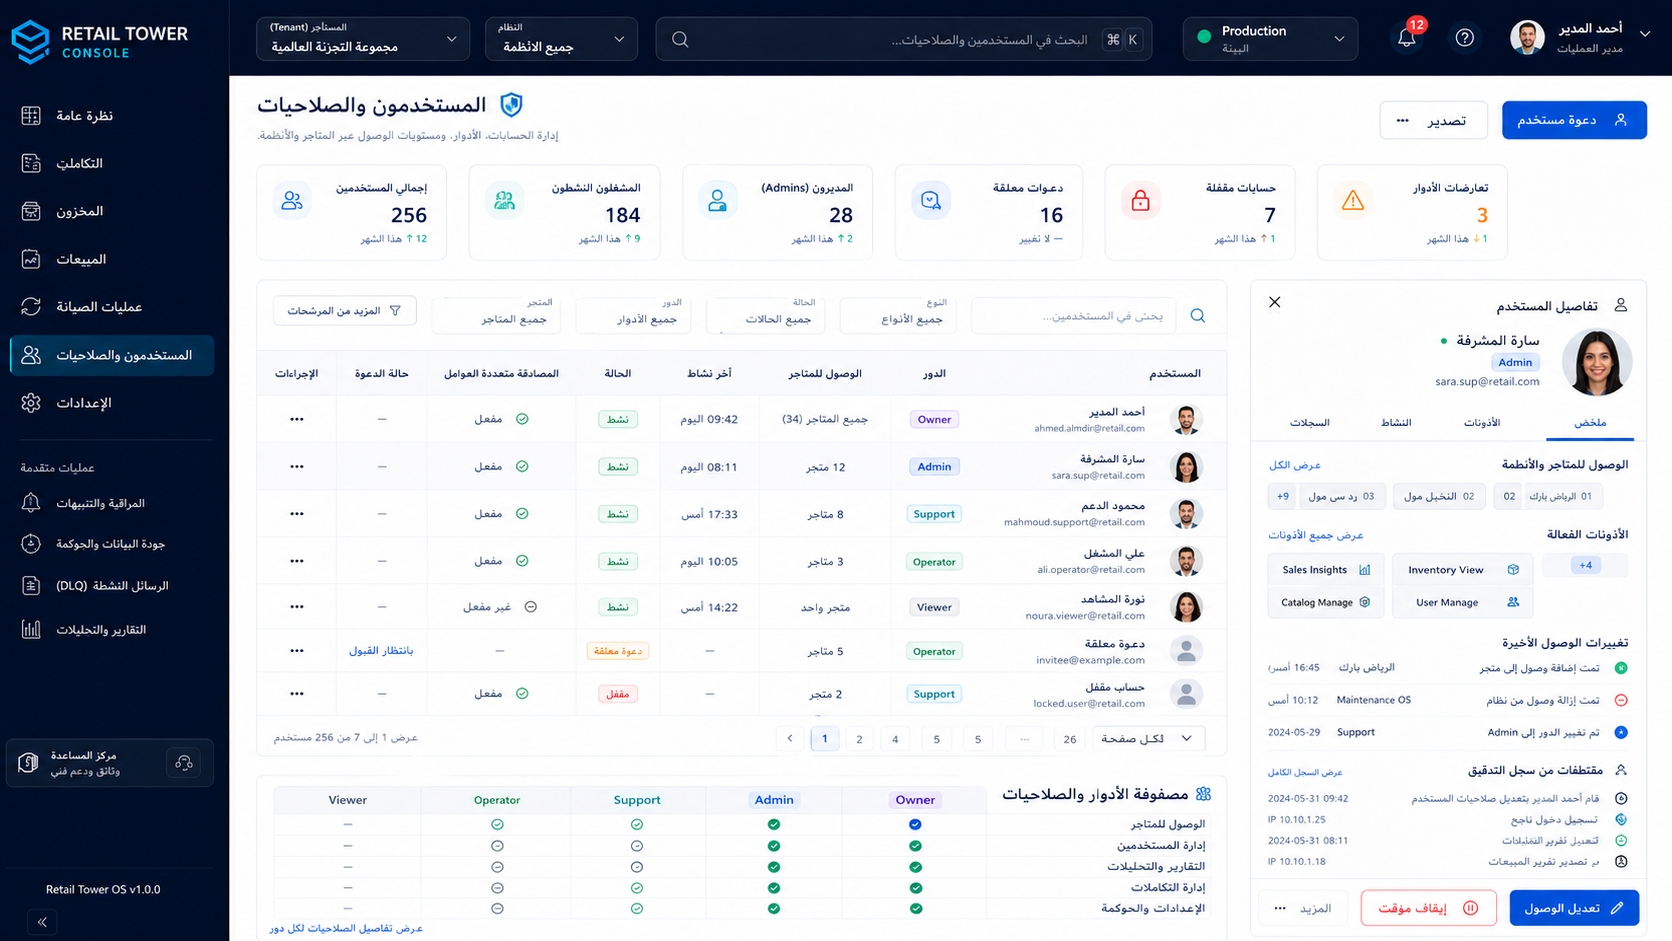
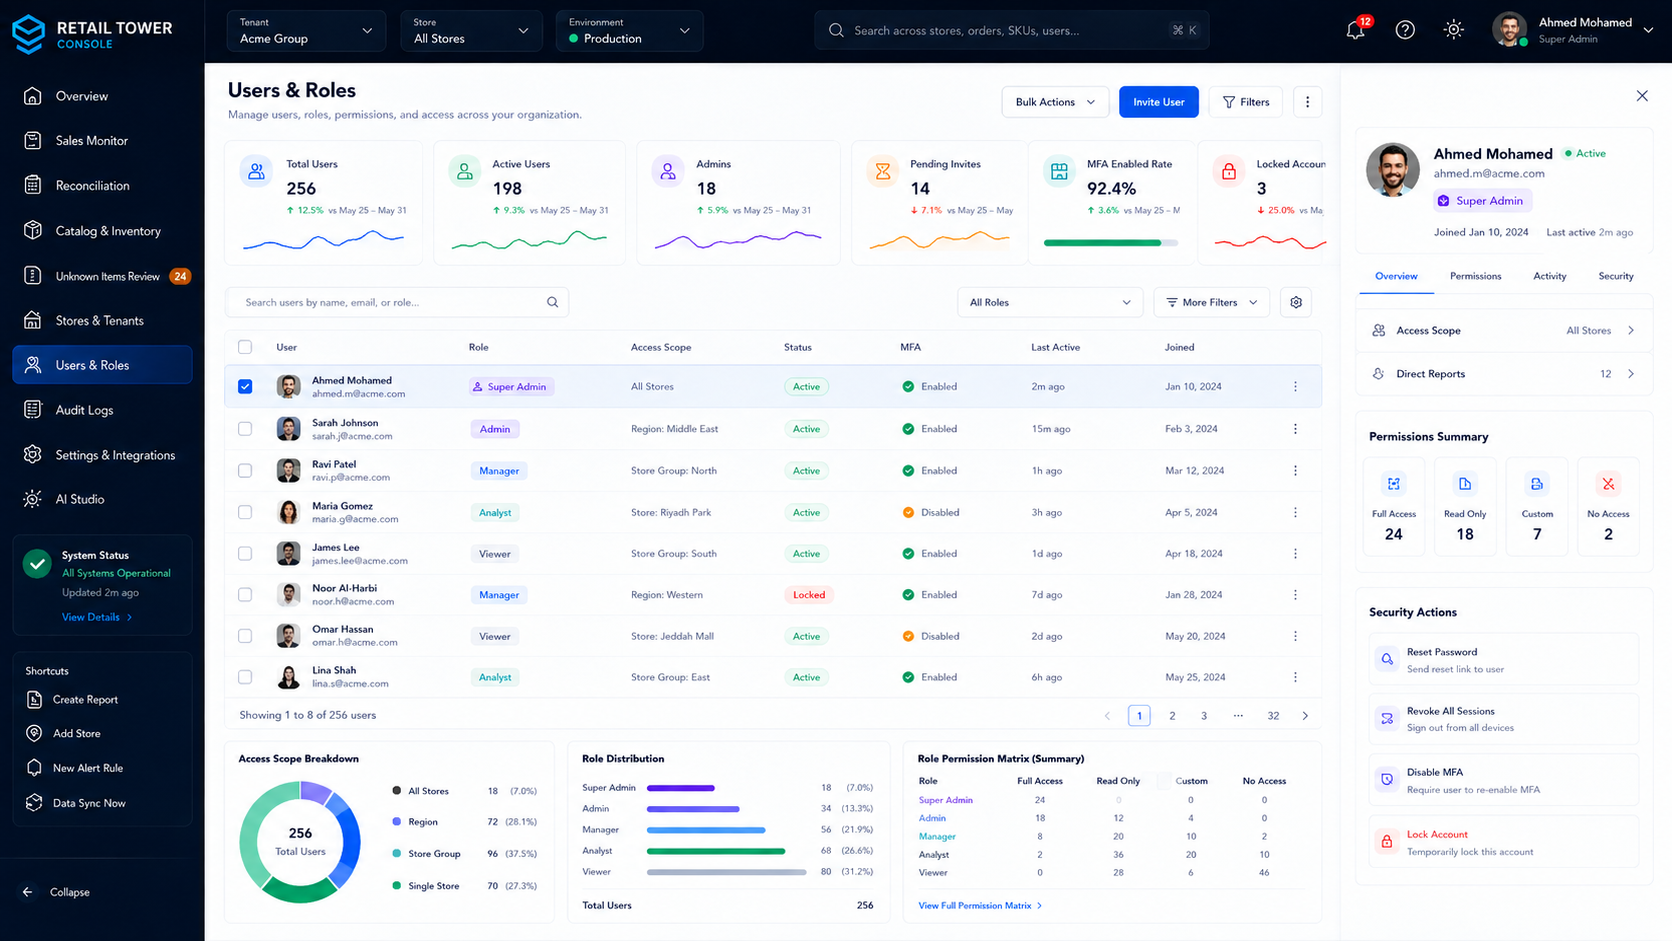
docs(design): replace console vision mockups with single converged vision
Remove the two competing-direction mockup sets (vision-1 light, vision-2
dark, 18 PNGs total) and replace them with a single converged design
direction: 10 screens imported from E:\Tower OS\UI-UX\console\4, renamed
from GUIDs to descriptive, nav-ordered names under vision-1/.

New screens: overview, sales-monitor, reconciliation, catalog-inventory,
unknown-items, stores-tenants, users-roles, audit-logs,
settings-integrations, ai-studio.

Rewrite _vision/README.md from "two competing visions, pick one" to a
single chosen direction with a refreshed screen-index -> slice mapping.

Reconcile the 8 vision-stub specs (009-016) that linked the deleted PNGs:
- 009/011/012/016 repointed to their vision screen
- 010/013/014/015 have no dedicated screen in the chosen direction; each
  now notes which surface absorbed it and flags it to revisit at
  /speckit-specify

Reference-only docs under docs/**, ignored by biome/Vite/CI — no build
impact. Verified zero dead links; every referenced PNG resolves on disk.

Original-Commit: faaf5400b818afd6d3f8465417852f953edd4335

diff --git a/apps/admin-console/docs/design/_vision/README.md b/apps/admin-console/docs/design/_vision/README.md
@@ -1,41 +1,44 @@
-# Console Design Visions — Reference Mockups
+# Console Design Vision — Reference Mockups
 
 High-fidelity UI mockups for the **Retail Tower Console** admin frontend, kept as a
 visual reference for implementation.
 
-## Two visions, not two themes
+## One converged vision
 
-`vision-1/` and `vision-2/` are **two competing design directions** (iterations /
-proposals) for the same console — *not* a light-theme vs dark-theme pair. Vision 1 is
-rendered light and Vision 2 dark, but that is incidental. The intent is to compare the
-two proposals **screen-by-screen** and pick a direction.
+`vision-1/` holds the **chosen design direction** for the console — a single, internally
+consistent system: one dark command theme, one persistent left-nav, and one set of
+screens that share layout, density, and component language. Earlier rounds explored two
+competing proposals; this supersedes them. There is now a single vision to build toward.
 
-The console UI is RTL Arabic (the live product language); one overview screen is shown
-in English.
+The console UI is RTL Arabic (the live product language).
 
 > These live under `docs/**`, which biome, Vite, and CI all ignore — so adding them
 > does not affect the FR-008 build gate. They are reference only; nothing here ships.
 
 ## Screen index
 
-| Screen | Vision 1 (light) | Vision 2 (dark) | Maps to slice |
-|---|---|---|---|
-| Data Quality | `01-data-quality.png` | `01-data-quality.png` | — (no slice yet) |
-| Inventory | `02-inventory.png` | `02-inventory.png` | — (no slice yet) |
-| Sales | `03-sales.png` | `03-sales.png` | — (no slice yet) |
-| Monitoring / Pipeline ops | `04-monitoring-ops.png` | `04-monitoring-ops.png` | — (no slice yet) |
-| Reports & Analytics | `05-reports-analytics.png` | — | — (no slice yet) |
-| Monitoring & Alerts | `08-monitoring-alerts.png` | `05-monitoring-alerts.png` | — (no slice yet) |
-| Dead Letters (DLQ) | `06-dead-letters-dlq.png` | `06-dead-letters-dlq.png` | closest: `007-rf4a-unknown-items` |
-| Users & Roles | `07-users-roles.png` | `07-users-roles.png` | `005-rf5-operator-admin` |
-| Connectors / Settings | `09-connectors-settings.png` | `08-connectors-settings.png` | — (no slice yet) |
-| Overview ("Welcome back", English) | — | `09-overview-welcome.png` | — (no slice yet) |
+Filenames follow the left-nav order shown in the mockups.
 
-Most screens have no spec slice yet — the design runs ahead of the spec. Treat the
-unmatched ones as seeds for future slices.
+| # | Screen | File | Maps to slice |
+|---|---|---|---|
+| 01 | Executive Overview ("Welcome back") | `01-overview.png` | `009-rf-overview-dashboard` |
+| 02 | Sales Monitor | `02-sales-monitor.png` | `012-rf-sales` |
+| 03 | Reconciliation | `03-reconciliation.png` | — (no slice yet) |
+| 04 | Catalog & Inventory | `04-catalog-inventory.png` | `011-rf-inventory` |
+| 05 | Unknown Items Review | `05-unknown-items.png` | `007-rf4a-unknown-items` |
+| 06 | Stores & Tenants | `06-stores-tenants.png` | — (no slice yet) |
+| 07 | Users & Roles | `07-users-roles.png` | `005-rf5-operator-admin` |
+| 08 | Audit Logs | `08-audit-logs.png` | — (no slice yet) |
+| 09 | Settings & Integrations | `09-settings-integrations.png` | `016-rf-connectors-settings` |
+| 10 | AI Studio | `10-ai-studio.png` | — (no slice yet) |
+
+Several screens have no spec slice yet — the design runs ahead of the spec. Treat the
+unmatched ones (Reconciliation, Stores & Tenants, Audit Logs, AI Studio) as seeds for
+future slices. Slices `010` (Data Quality), `013` (Monitoring / Pipeline Ops),
+`014` (Monitoring & Alerts), and `015` (Reports & Analytics) are folded into the
+Overview / Sales / Audit surfaces in this vision rather than getting standalone screens.
 
 ## Source
 
-Imported from `E:\Tower OS\UI-UX\console\{1,2}`. Three exact-duplicate `(1).png`
-copies present in the source were dropped; GUID filenames were renamed to the
-descriptive English names above.
+Imported from `E:\Tower OS\UI-UX\console\4`. GUID filenames were renamed to the
+descriptive, nav-ordered English names above.

diff --git a/apps/admin-console/specs/014-rf-monitoring-alerts/spec.md b/apps/admin-console/specs/014-rf-monitoring-alerts/spec.md
@@ -6,10 +6,11 @@
 
 ## Vision reference
 
-- Vision 1 (light): [`docs/design/_vision/vision-1/08-monitoring-alerts.png`](../../docs/design/_vision/vision-1/08-monitoring-alerts.png)
-- Vision 2 (dark): [`docs/design/_vision/vision-2/05-monitoring-alerts.png`](../../docs/design/_vision/vision-2/05-monitoring-alerts.png)
+- No dedicated screen in the chosen design direction — alert signals surface via the
+  Executive Overview ([`docs/design/_vision/vision-1/01-overview.png`](../../docs/design/_vision/vision-1/01-overview.png), "Operational Exceptions" / "Recent Activity") and the Audit Logs surface.
 
-> Two competing visions of this screen — compare side by side. See [`docs/design/_vision/README.md`](../../docs/design/_vision/README.md).
+> The console converged on a single design direction; this slice no longer has a
+> standalone mockup. See [`docs/design/_vision/README.md`](../../docs/design/_vision/README.md). Revisit whether it warrants its own screen during `/speckit-specify`.
 
 ## Intent (one paragraph)
 

diff --git a/apps/admin-console/specs/013-rf-monitoring-ops/spec.md b/apps/admin-console/specs/013-rf-monitoring-ops/spec.md
@@ -6,10 +6,11 @@
 
 ## Vision reference
 
-- Vision 1 (light): [`docs/design/_vision/vision-1/04-monitoring-ops.png`](../../docs/design/_vision/vision-1/04-monitoring-ops.png)
-- Vision 2 (dark): [`docs/design/_vision/vision-2/04-monitoring-ops.png`](../../docs/design/_vision/vision-2/04-monitoring-ops.png)
+- No dedicated screen in the chosen design direction — pipeline-ops signals were folded
+  into the Executive Overview ([`docs/design/_vision/vision-1/01-overview.png`](../../docs/design/_vision/vision-1/01-overview.png), "Integration Health" / "System Status") and Reconciliation surfaces.
 
-> Two competing visions of this screen — compare side by side. See [`docs/design/_vision/README.md`](../../docs/design/_vision/README.md).
+> The console converged on a single design direction; this slice no longer has a
+> standalone mockup. See [`docs/design/_vision/README.md`](../../docs/design/_vision/README.md). Revisit whether it warrants its own screen during `/speckit-specify`.
 
 ## Intent (one paragraph)
 

diff --git a/apps/admin-console/specs/015-rf-reports-analytics/spec.md b/apps/admin-console/specs/015-rf-reports-analytics/spec.md
@@ -6,9 +6,11 @@
 
 ## Vision reference
 
-- Vision 1 (light): [`docs/design/_vision/vision-1/05-reports-analytics.png`](../../docs/design/_vision/vision-1/05-reports-analytics.png)
+- No dedicated screen in the chosen design direction — analytical/reporting views were
+  folded into the Sales Monitor ([`docs/design/_vision/vision-1/02-sales-monitor.png`](../../docs/design/_vision/vision-1/02-sales-monitor.png)) and Executive Overview surfaces; AI Studio ([`10-ai-studio.png`](../../docs/design/_vision/vision-1/10-ai-studio.png)) covers the report-builder direction.
 
-> Only one vision drew this screen. See [`docs/design/_vision/README.md`](../../docs/design/_vision/README.md) for the two-vision comparison context.
+> The console converged on a single design direction; this slice no longer has a
+> standalone mockup. See [`docs/design/_vision/README.md`](../../docs/design/_vision/README.md). Revisit whether it warrants its own screen during `/speckit-specify`.
 
 ## Intent (one paragraph)
 

diff --git a/apps/admin-console/specs/010-rf-data-quality/spec.md b/apps/admin-console/specs/010-rf-data-quality/spec.md
@@ -6,10 +6,11 @@
 
 ## Vision reference
 
-- Vision 1 (light): [`docs/design/_vision/vision-1/01-data-quality.png`](../../docs/design/_vision/vision-1/01-data-quality.png)
-- Vision 2 (dark): [`docs/design/_vision/vision-2/01-data-quality.png`](../../docs/design/_vision/vision-2/01-data-quality.png)
+- No dedicated screen in the chosen design direction — data-quality signals were folded
+  into the Executive Overview ([`docs/design/_vision/vision-1/01-overview.png`](../../docs/design/_vision/vision-1/01-overview.png)) and Reconciliation surfaces.
 
-> Two competing visions of this screen — compare side by side. See [`docs/design/_vision/README.md`](../../docs/design/_vision/README.md).
+> The console converged on a single design direction; this slice no longer has a
+> standalone mockup. See [`docs/design/_vision/README.md`](../../docs/design/_vision/README.md). Revisit whether it warrants its own screen during `/speckit-specify`.
 
 ## Intent (one paragraph)
 

diff --git a/apps/admin-console/specs/016-rf-connectors-settings/spec.md b/apps/admin-console/specs/016-rf-connectors-settings/spec.md
@@ -6,10 +6,9 @@
 
 ## Vision reference
 
-- Vision 1 (light): [`docs/design/_vision/vision-1/09-connectors-settings.png`](../../docs/design/_vision/vision-1/09-connectors-settings.png)
-- Vision 2 (dark): [`docs/design/_vision/vision-2/08-connectors-settings.png`](../../docs/design/_vision/vision-2/08-connectors-settings.png)
+- Vision (chosen direction): [`docs/design/_vision/vision-1/09-settings-integrations.png`](../../docs/design/_vision/vision-1/09-settings-integrations.png) (shown as "Settings & Integrations")
 
-> Two competing visions of this screen — compare side by side. See [`docs/design/_vision/README.md`](../../docs/design/_vision/README.md).
+> The console converged on a single design direction. See [`docs/design/_vision/README.md`](../../docs/design/_vision/README.md).
 
 ## Intent (one paragraph)
 

diff --git a/apps/admin-console/specs/011-rf-inventory/spec.md b/apps/admin-console/specs/011-rf-inventory/spec.md
@@ -6,10 +6,9 @@
 
 ## Vision reference
 
-- Vision 1 (light): [`docs/design/_vision/vision-1/02-inventory.png`](../../docs/design/_vision/vision-1/02-inventory.png)
-- Vision 2 (dark): [`docs/design/_vision/vision-2/02-inventory.png`](../../docs/design/_vision/vision-2/02-inventory.png)
+- Vision (chosen direction): [`docs/design/_vision/vision-1/04-catalog-inventory.png`](../../docs/design/_vision/vision-1/04-catalog-inventory.png) (shown as "Catalog & Inventory")
 
-> Two competing visions of this screen — compare side by side. See [`docs/design/_vision/README.md`](../../docs/design/_vision/README.md).
+> The console converged on a single design direction. See [`docs/design/_vision/README.md`](../../docs/design/_vision/README.md).
 
 ## Intent (one paragraph)
 

diff --git a/apps/admin-console/specs/012-rf-sales/spec.md b/apps/admin-console/specs/012-rf-sales/spec.md
@@ -6,10 +6,9 @@
 
 ## Vision reference
 
-- Vision 1 (light): [`docs/design/_vision/vision-1/03-sales.png`](../../docs/design/_vision/vision-1/03-sales.png)
-- Vision 2 (dark): [`docs/design/_vision/vision-2/03-sales.png`](../../docs/design/_vision/vision-2/03-sales.png)
+- Vision (chosen direction): [`docs/design/_vision/vision-1/02-sales-monitor.png`](../../docs/design/_vision/vision-1/02-sales-monitor.png) (shown as "Sales Monitor")
 
-> Two competing visions of this screen — compare side by side. See [`docs/design/_vision/README.md`](../../docs/design/_vision/README.md).
+> The console converged on a single design direction. See [`docs/design/_vision/README.md`](../../docs/design/_vision/README.md).
 
 ## Intent (one paragraph)
 

diff --git a/apps/admin-console/specs/009-rf-overview-dashboard/spec.md b/apps/admin-console/specs/009-rf-overview-dashboard/spec.md
@@ -6,9 +6,9 @@
 
 ## Vision reference
 
-- Vision 2 (dark): [`docs/design/_vision/vision-2/09-overview-welcome.png`](../../docs/design/_vision/vision-2/09-overview-welcome.png)
+- Vision (chosen direction): [`docs/design/_vision/vision-1/01-overview.png`](../../docs/design/_vision/vision-1/01-overview.png)
 
-> Only one vision drew this screen. See [`docs/design/_vision/README.md`](../../docs/design/_vision/README.md) for the two-vision comparison context.
+> The console converged on a single design direction. See [`docs/design/_vision/README.md`](../../docs/design/_vision/README.md).
 
 ## Intent (one paragraph)
 
